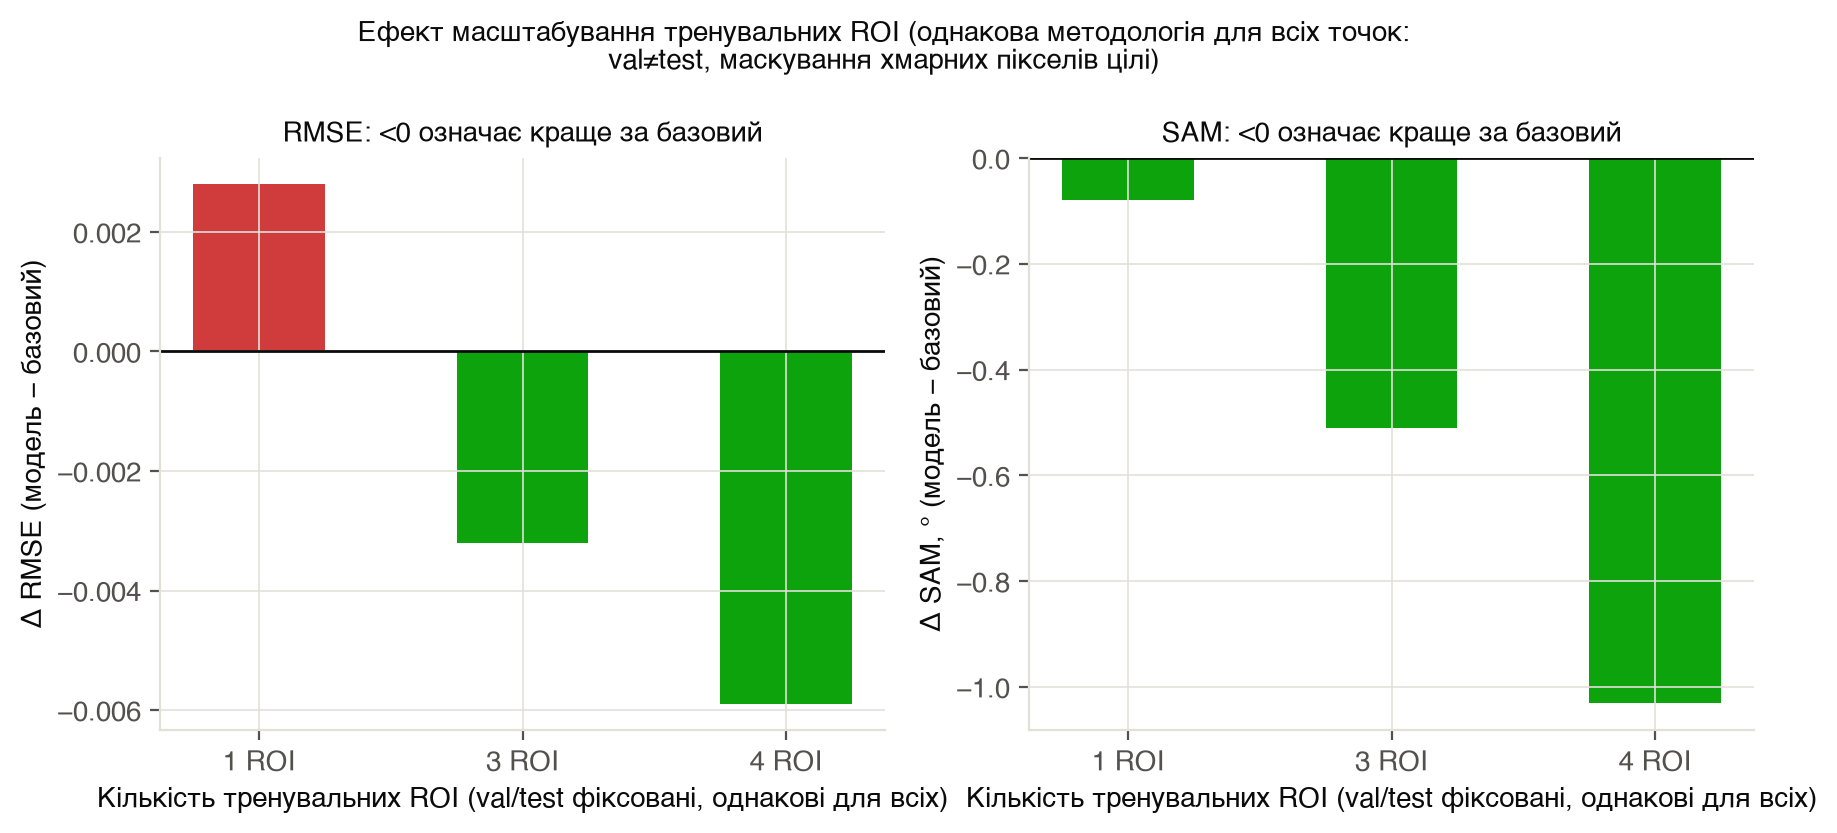
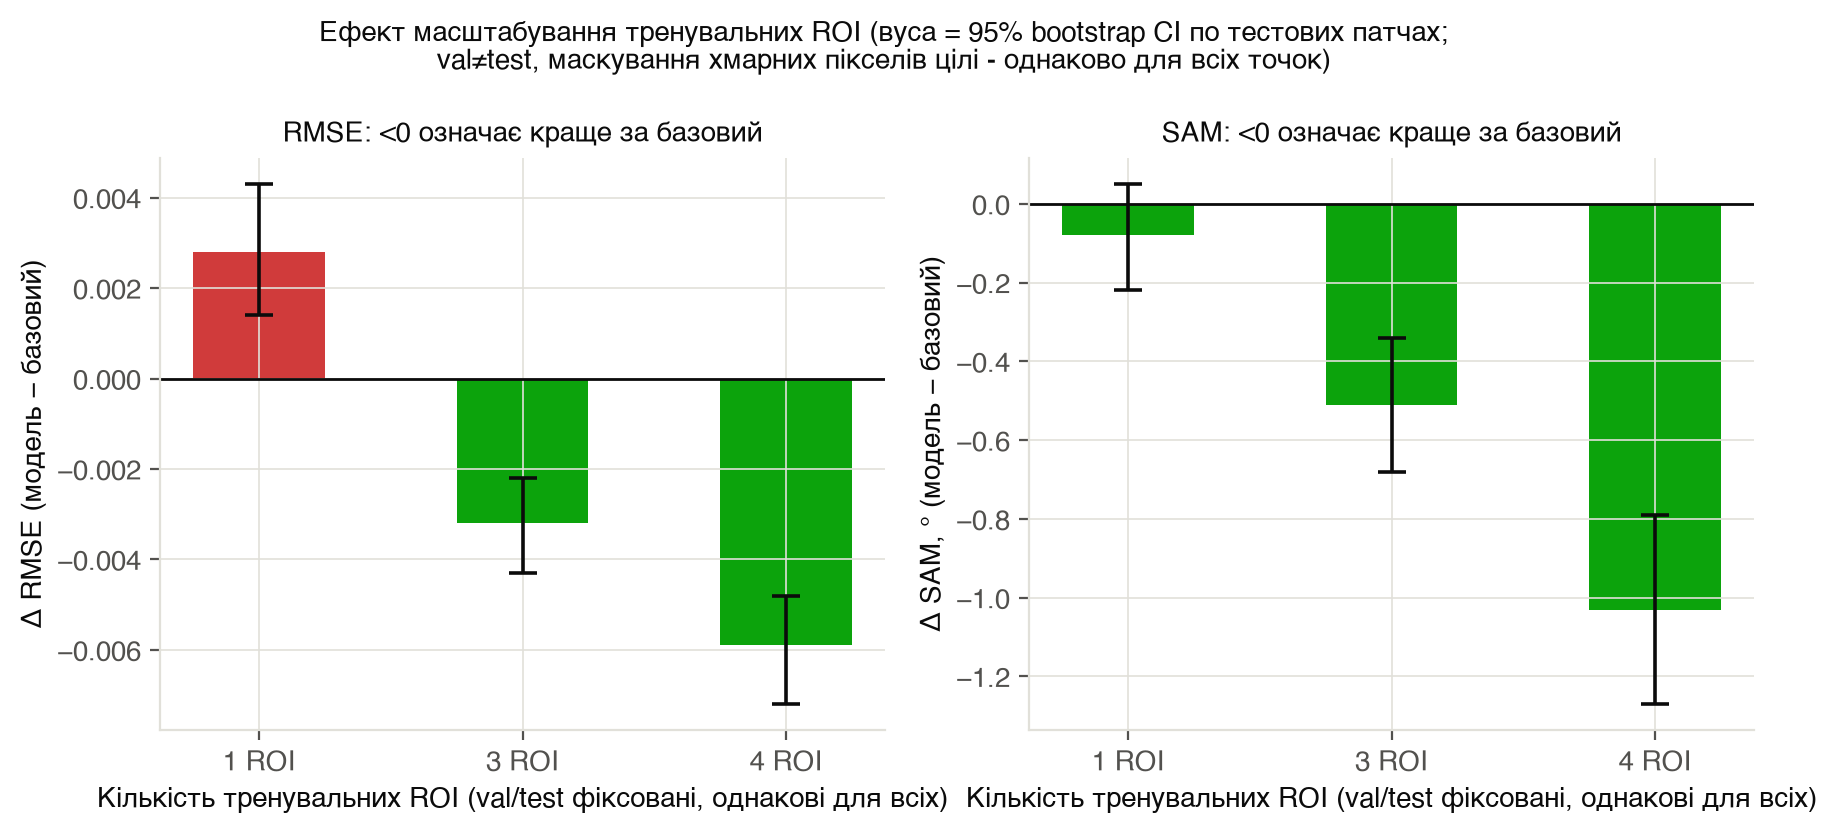
Add 95% CI error bars to the ROI-scaling figure
Per review feedback, fig2_roi_scaling.png previously showed only point
estimates, so the non-significance of the SAM delta at 1 train ROI
(CI crosses zero) wasn't visible in the figure, only in the table.
Bars now carry whiskers from the same bootstrap CI already in
REPORT.md's table - the 1-ROI SAM whisker visibly crosses zero while
3- and 4-ROI don't.

diff --git a/scripts/make_figures.py b/scripts/make_figures.py
@@ -91,25 +91,34 @@ def fig2_scaling():
     # Усі три точки - ОДНАКОВА методологія: train ROI варіюється, val=asiaEast/119
     # (вибір епохи) і test=america/132 (звіт) фіксовані для всіх трьох, RMSE/MAE/SAM
     # маскують хмарні пікселі цілі. results/step2_{1,3}roi_v2 + results/step2_final (4 ROI).
+    # CI - з bootstrap по тестових патчах (train_step2.py), не з повторних тренувань.
     labels = ["1 ROI", "3 ROI", "4 ROI"]
     d_rmse = [0.0028, -0.0032, -0.0059]
+    rmse_lo = [0.0014, -0.0043, -0.0072]
+    rmse_hi = [0.0043, -0.0022, -0.0048]
     d_sam = [-0.08, -0.51, -1.03]
+    sam_lo = [-0.22, -0.68, -1.27]
+    sam_hi = [0.05, -0.34, -0.79]
 
     fig, axes = plt.subplots(1, 2, figsize=(9, 4.2))
-    for ax, deltas, ylabel, title in [
-        (axes[0], d_rmse, "Δ RMSE (модель − базовий)", "RMSE: <0 означає краще за базовий"),
-        (axes[1], d_sam, "Δ SAM, ° (модель − базовий)", "SAM: <0 означає краще за базовий"),
+    for ax, deltas, lo, hi, ylabel, title in [
+        (axes[0], d_rmse, rmse_lo, rmse_hi, "Δ RMSE (модель − базовий)", "RMSE: <0 означає краще за базовий"),
+        (axes[1], d_sam, sam_lo, sam_hi, "Δ SAM, ° (модель − базовий)", "SAM: <0 означає краще за базовий"),
     ]:
         colors = [PALETTE["critical"] if v > 0 else PALETTE["good"] for v in deltas]
-        ax.bar(labels, deltas, color=colors, width=0.5)
+        err_lo = [d - l for d, l in zip(deltas, lo)]
+        err_hi = [h - d for d, h in zip(deltas, hi)]
+        ax.bar(labels, deltas, color=colors, width=0.5,
+               yerr=[err_lo, err_hi], capsize=5,
+               error_kw=dict(ecolor=PALETTE["ink"], lw=1.3, capthick=1.3))
         ax.axhline(0, color=PALETTE["ink"], lw=1)
         ax.set_xlabel("Кількість тренувальних ROI (val/test фіксовані, однакові для всіх)")
         ax.set_ylabel(ylabel)
         ax.set_title(title, fontsize=10)
         _strip_spines(ax)
 
-    fig.suptitle("Ефект масштабування тренувальних ROI (однакова методологія для всіх точок:\n"
-                  "val≠test, маскування хмарних пікселів цілі)", fontsize=10)
+    fig.suptitle("Ефект масштабування тренувальних ROI (вуса = 95% bootstrap CI по тестових патчах;\n"
+                  "val≠test, маскування хмарних пікселів цілі - однаково для всіх точок)", fontsize=10)
     fig.tight_layout()
     fig.savefig(OUT / "fig2_roi_scaling.png")
     plt.close(fig)

diff --git a/REPORT.md b/REPORT.md
@@ -162,6 +162,9 @@ train_L1=0.0431; до цього - коливання val_L1 без чітког
 
 ![Ефект масштабування тренувальних ROI на ΔRMSE і ΔSAM](results/figures/fig2_roi_scaling.png)
 
+Вуса на рисунку - 95% bootstrap CI з таблиці вище: видно, що для 1 ROI вус ΔSAM
+перетинає нуль (не значуще), тоді як для 3 і 4 ROI - ні.
+
 **Результат цього циклу робіт:** перший тест на одній локації дав оманливо хороший
 результат через валідацію всередині того самого ROI. Після переходу на крос-локаційну
 валідацію модель спочатку програвала через перенавчання на єдину тренувальну локацію
